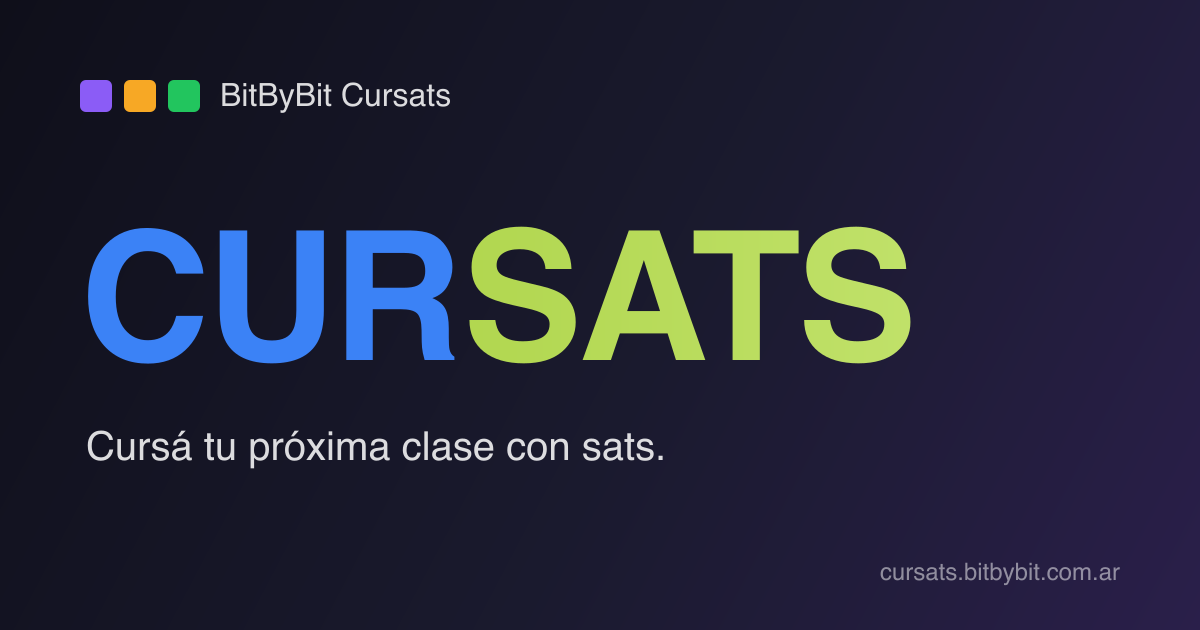
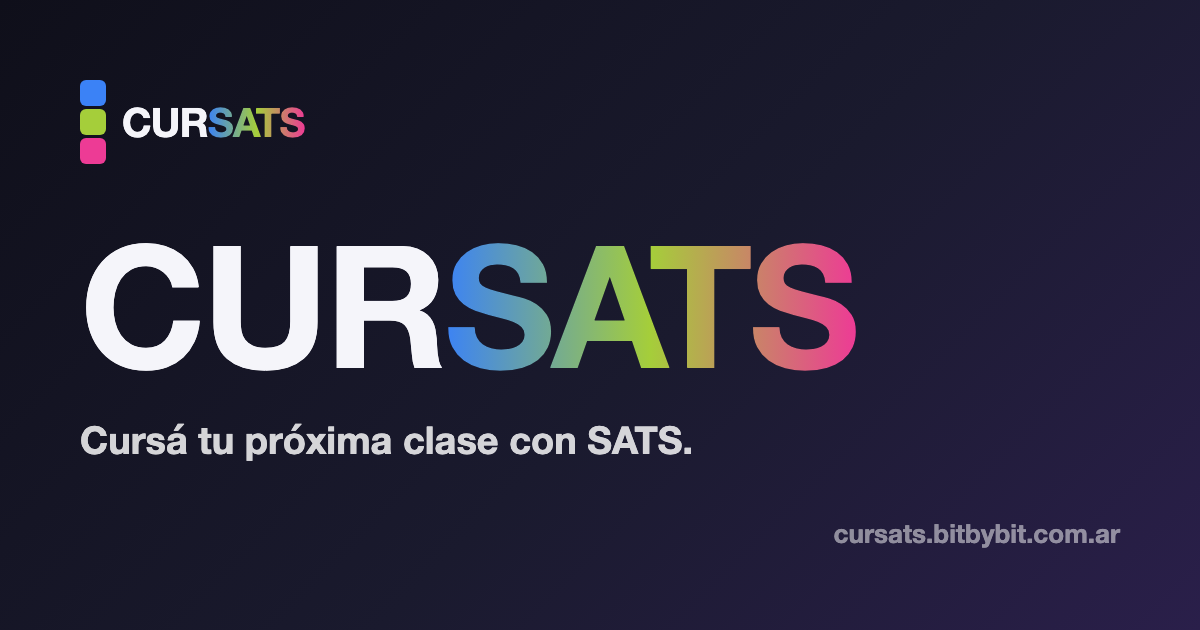
feat(seo): redesign social preview card — CURSATS brand hero + slogan (#24)
Brand-led OG card: vertically stacked blue/lime/pink blocks + CURSATS
wordmark, giant wordmark hero, brand slogan as the value line. Drops the
burned-in headline/tagline that duplicated the link title/description.
Title shortened to "CURSATS — <slogan>". Replaces ogHeadline/ogTagline
with ogValueLine. Regenerates public/og.png and updates docs.

CI's integration suite failed on pre-existing shared-test-DB schema drift
(missing orders.wapu_tentative_uuid), unrelated to this presentational
change; merged via admin bypass.

diff --git a/app/[locale]/opengraph-image.tsx b/app/[locale]/opengraph-image.tsx
@@ -1,9 +1,44 @@
 import { ImageResponse } from "next/og";
 import { getTranslations } from "next-intl/server";
 
-export const alt = "BitByBit Cursats";
+export const alt = "Cursats";
 export const size = { width: 1200, height: 630 };
 export const contentType = "image/png";
+
+// Same three hues as <LogoBlocks /> and <Wordmark />: brand blue,
+// lime, pink. Kept inline because Satori can't read the SCSS tokens.
+const BLOCK_COLORS = ["#3b82f6", "#a5ce3a", "#ed3b95"];
+const SATS_GRADIENT =
+  "linear-gradient(90deg, #3b82f6 0%, #a5ce3a 50%, #ed3b95 100%)";
+const SITE_HOST = "cursats.bitbybit.com.ar";
+
+// "CUR" in near-white, "SATS" painted with the brand gradient via
+// background-clip:text — the same split the real <Wordmark /> renders.
+function Wordmark({ fontSize }: { fontSize: number }) {
+  return (
+    <div
+      style={{
+        display: "flex",
+        fontSize,
+        fontWeight: 800,
+        letterSpacing: fontSize * -0.02,
+        lineHeight: 1,
+      }}
+    >
+      <span style={{ color: "#F5F5FA" }}>CUR</span>
+      <span
+        style={{
+          backgroundImage: SATS_GRADIENT,
+          backgroundClip: "text",
+          WebkitBackgroundClip: "text",
+          color: "transparent",
+        }}
+      >
+        SATS
+      </span>
+    </div>
+  );
+}
 
 export default async function OgImage({
   params,
@@ -28,70 +63,51 @@ export default async function OgImage({
         fontFamily: "sans-serif",
       }}
     >
+      {/* Brand lockup — vertically stacked blocks + CURSATS wordmark */}
+      <div style={{ display: "flex", alignItems: "center", gap: "16px" }}>
+        <div style={{ display: "flex", flexDirection: "column", gap: "3px" }}>
+          {BLOCK_COLORS.map((color) => (
+            <div
+              key={color}
+              style={{
+                display: "flex",
+                width: "26px",
+                height: "26px",
+                borderRadius: "6px",
+                background: color,
+              }}
+            />
+          ))}
+        </div>
+        <Wordmark fontSize={40} />
+      </div>
+
+      {/* Hero — giant wordmark + a single value line (no headline /
+          tagline, those live in the link title and description). */}
+      <div style={{ display: "flex", flexDirection: "column", gap: "28px" }}>
+        <Wordmark fontSize={170} />
+        <div
+          style={{
+            display: "flex",
+            fontSize: "38px",
+            lineHeight: 1.2,
+            color: "rgba(255, 255, 255, 0.82)",
+          }}
+        >
+          {t("ogValueLine")}
+        </div>
+      </div>
+
+      {/* Footer — domain, right-aligned */}
       <div
         style={{
           display: "flex",
-          alignItems: "center",
-          gap: "16px",
-          fontSize: "32px",
-          opacity: 0.85,
+          justifyContent: "flex-end",
+          fontSize: "26px",
+          color: "rgba(255, 255, 255, 0.5)",
         }}
       >
-        <div style={{ display: "flex", gap: "4px" }}>
-          <div
-            style={{
-              display: "flex",
-              width: "32px",
-              height: "32px",
-              borderRadius: "6px",
-              background: "#8B5CF6",
-            }}
-          />
-          <div
-            style={{
-              display: "flex",
-              width: "32px",
-              height: "32px",
-              borderRadius: "6px",
-              background: "#F7A825",
-            }}
-          />
-          <div
-            style={{
-              display: "flex",
-              width: "32px",
-              height: "32px",
-              borderRadius: "6px",
-              background: "#22C55E",
-            }}
-          />
-        </div>
-        <span>BitByBit Cursats</span>
-      </div>
-
-      <div style={{ display: "flex", flexDirection: "column", gap: "24px" }}>
-        <div
-          style={{
-            display: "flex",
-            fontSize: "84px",
-            fontWeight: 800,
-            lineHeight: 1.05,
-            maxWidth: "1040px",
-          }}
-        >
-          {t("ogHeadline")}
-        </div>
-        <div
-          style={{
-            display: "flex",
-            fontSize: "28px",
-            opacity: 0.85,
-            maxWidth: "960px",
-            lineHeight: 1.3,
-          }}
-        >
-          {t("ogTagline")}
-        </div>
+        {SITE_HOST}
       </div>
     </div>,
     size

diff --git a/docs/architecture/overview.md b/docs/architecture/overview.md
@@ -1,7 +1,7 @@
 # Architecture overview
 
 > **Status:** Active
-> **Last updated:** 2026-05-21
+> **Last updated:** 2026-05-22
 
 ---
 
@@ -9,6 +9,7 @@
 
 | Date | Section | Change | Reason |
 |---|---|---|---|
+| 2026-05-22 | SEO surface | Rewrote the OG image description: it is now brand-led (block mark + `CURSATS` wordmark + giant wordmark hero + one `ogValueLine`) instead of a burned-in headline/tagline, and `og.png` is a baked twin of the route. Swapped the `ogHeadline`/`ogTagline` key reference for `ogValueLine`. | The social card duplicated its own headline/tagline in the link title and description, and its logo read "BitByBit Cursats" with horizontal off-brand blocks; the redesign fixes the mark and removes the repetition. |
 | 2026-05-21 | Auto-renewal flow, Ownership of state | Replaced the full autorenewal flow description and diagram with a deferred-from-MVP pointer to ADR 0020; removed the "Autorenewal toggle" row from the ownership table. | ADR 0020 was revised to drop the column outright (migration 0009). The overview was still describing the dormant-but-deployed posture the original ADR walked back. |
 | 2026-05-19 | External services | Added Yadio as the live sats↔ARS exchange-rate source. | The storefront was quoting against a 4-sats/ARS mock (~4.5× off); ADR 0022 wired the real rate. |
 | 2026-05-12 | — | Rebranded references from "Cursá" to "Cursats" and updated the deployment URL to `cursats.bitbybit.com.ar`. Aligned the example storefront URLs with ADR 0017 (flat `/<userSlug>` instead of `/m/<userSlug>`). | Brand rename per ADR 0018 — portmanteau of *cursá* (the voseo verb) and *sats*. |
@@ -237,9 +238,19 @@ Routes inventory and request shapes live in
   `parentOrganization` to BitByBit so search engines associate
   Cursats with the wider org.
 - Dynamic OG image rendered per locale via `next/og` at
-  `app/[locale]/opengraph-image.tsx`. Headline and tagline come
-  from `messages/{locale}.json` (`metadata.ogHeadline`,
-  `metadata.ogTagline`).
+  `app/[locale]/opengraph-image.tsx`. It is brand-led: the
+  vertically stacked block mark plus the `CURSATS` wordmark (the
+  same blue/lime/pink hues as `<LogoBlocks />` / `<Wordmark />`),
+  a giant wordmark hero, and one short value line from
+  `messages/{locale}.json` (`metadata.ogValueLine`). That value
+  line is the brand slogan ("Cursá tu próxima clase con sats" /
+  "Your next class, paid in sats"), which also doubles as the link
+  title (`metadata.siteTitle`); the long product description stays
+  out of the image and lives only in the link description.
+  `public/og.png` is a baked copy of the same design,
+  referenced first in the metadata for crawlers that miss the
+  file-convention endpoint (notably WhatsApp); regenerate it from
+  the same layout whenever the route's design changes.
 - `app/sitemap.ts` lists `/es` and `/en` with hreflang alternates.
 - `app/robots.ts` allows everything except `/api/` and `/_next/`.
 - `app/manifest.ts` declares the standalone PWA shell with

diff --git a/CHANGELOG.md b/CHANGELOG.md
@@ -10,6 +10,31 @@ versioning follows [SemVer](https://semver.org/spec/v2.0.0.html).
 
 ## [Unreleased]
 
+### Changed
+
+- **Social preview image redesigned.** The Open Graph card
+  (`app/[locale]/opengraph-image.tsx` and the static
+  `public/og.png` fallback) now leads with the brand: vertically
+  stacked blue/lime/pink blocks and the `CURSATS` wordmark
+  (matching `<LogoBlocks />` / `<Wordmark />`), a giant wordmark
+  hero, and the brand slogan as its value line. The old card
+  burned a long headline and tagline into the image, which then
+  repeated verbatim in the link title and description; the long
+  product description now lives only in the link description. New
+  `metadata.ogValueLine` key replaces the unused
+  `ogHeadline`/`ogTagline` keys in both locales.
+
+- **Brand title + slogan.** Dropped the "BitByBit" prefix from
+  `metadata.siteName` and `metadata.siteTitle` in both locales —
+  the link title, the `%s · …` sub-page suffix, and `og:site_name`
+  now read "CURSATS" (uppercase, matching the wordmark) rather
+  than "BitByBit Cursats". The title's
+  tagline is now the slogan "Cursá tu próxima clase con sats" (es)
+  / "Your next class, paid in sats" (en), the same line shown in
+  the OG image. The Organization JSON-LD still carries the full
+  name with `parentOrganization: BitByBit`, so the org
+  relationship is preserved for search engines.
+
 ### Removed
 
 - **"Your money, your keys" custody section removed from
